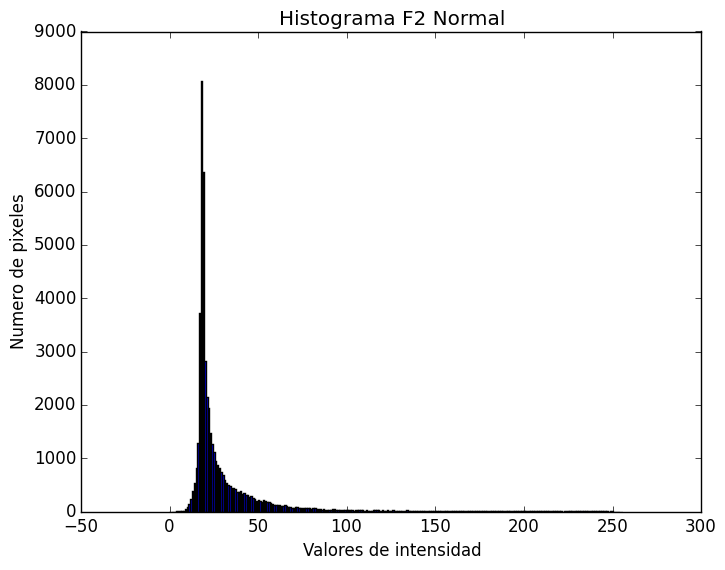
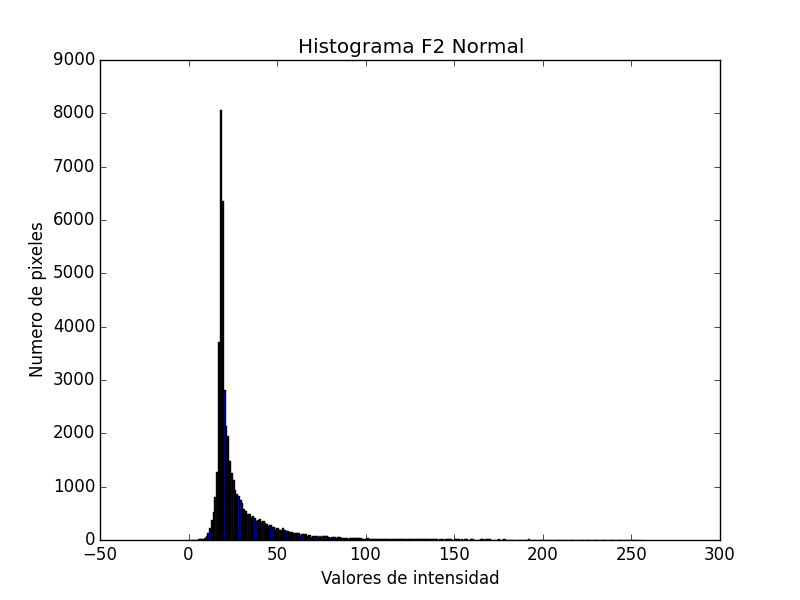
Ejercicio 5 Completado

diff --git a/Laboratorio #3/Ejercicio 5/Ejercicio 5.py b/Laboratorio #3/Ejercicio 5/Ejercicio 5.py
@@ -8,7 +8,17 @@ def HistoNormal(datos,archivo,img):
     plt.title('Histograma '+img+' Normal')
     plt.xlabel('Valores de intensidad')
     plt.ylabel('Numero de pixeles')
-    plt.savefig(archivo,bbox_inches='tight')
+    plt.savefig(archivo)
+    return None
+
+def HistoAcumulativo(datos,archivo,img):
+    plt.figure()
+    x = range(len(datos))
+    plt.bar(x,datos,align='center')
+    plt.title('Histograma '+img+' Acumulativo')
+    plt.xlabel('Valores de intensidad')
+    plt.ylabel('Numero de pixeles')
+    plt.savefig(archivo)
     return None
 
 aNomImg = ['F1','F2','F3','F4','F5','F6']
@@ -19,3 +29,15 @@ for i in aNomImg:
     htgNormal = imagen.histogram()
     HistoNormal(htgNormal,'Histogramas_'+i+'/Histo_Normal.PNG',i)
 print 'Histogramas Normales Guardados'
+
+for i in aNomImg:
+    imagen = Image.open('Histogramas_'+i+'/'+i+'.PNG')
+    if(imagen.mode!='L'): imagen = imagen.convert('L')
+    h_Acumulativo = []
+    acumulador = 0
+    htgAcumulativo = imagen.histogram()
+    for v in htgAcumulativo:
+        acumulador += v
+        h_Acumulativo.append(acumulador)
+    HistoAcumulativo(h_Acumulativo,'Histogramas_'+i+'/Histo_Acumulativo.PNG',i)
+print 'Histogramas Acumulativos Guardados'
